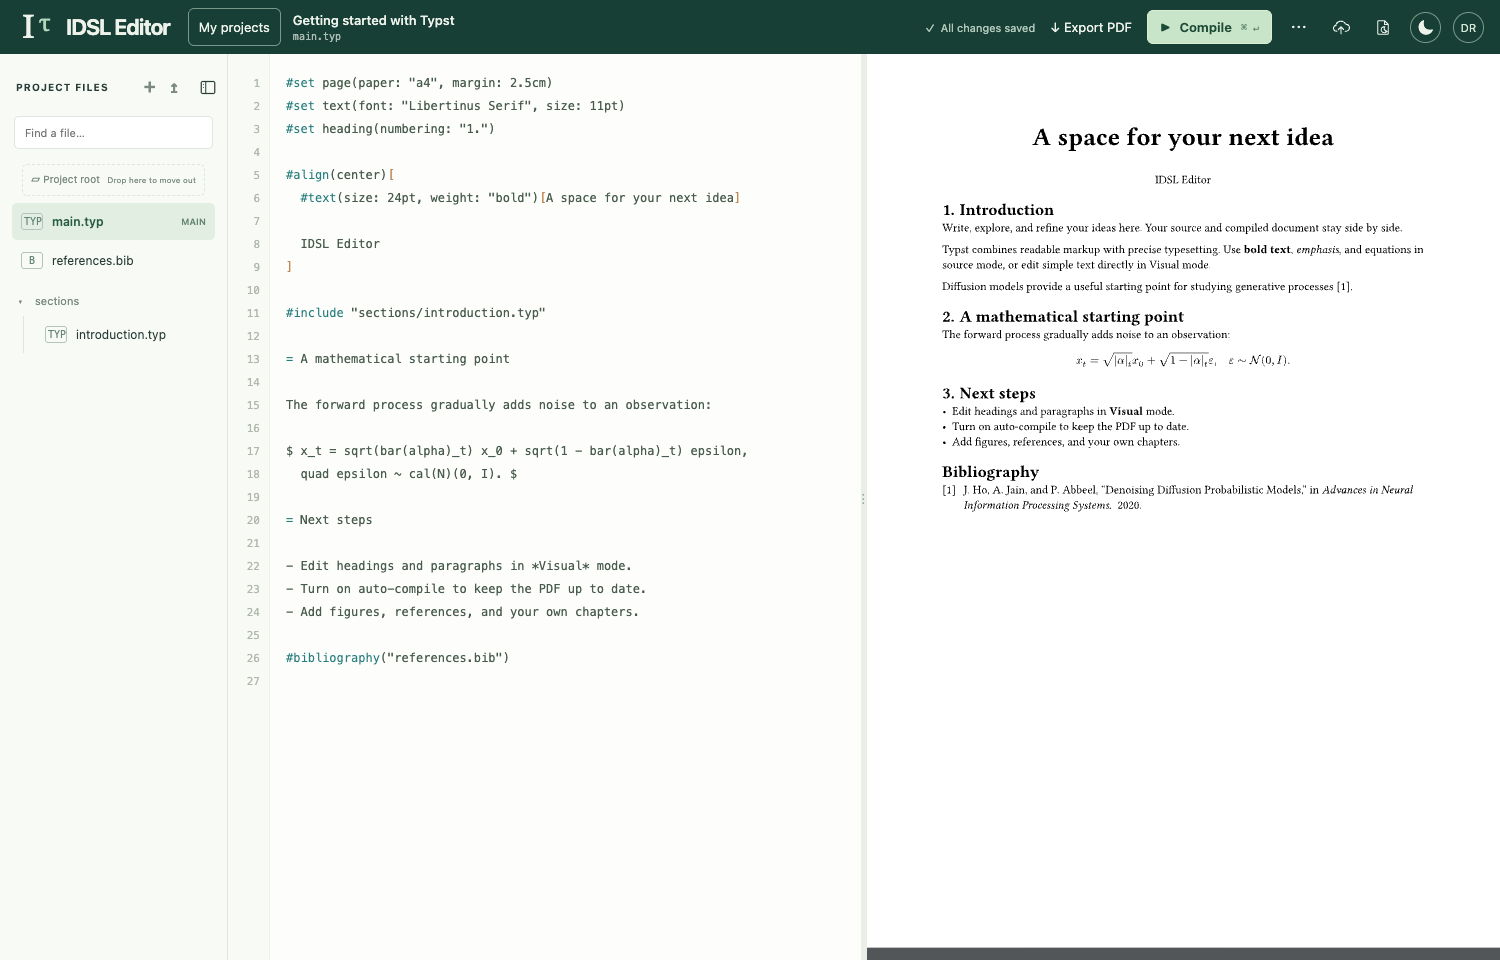
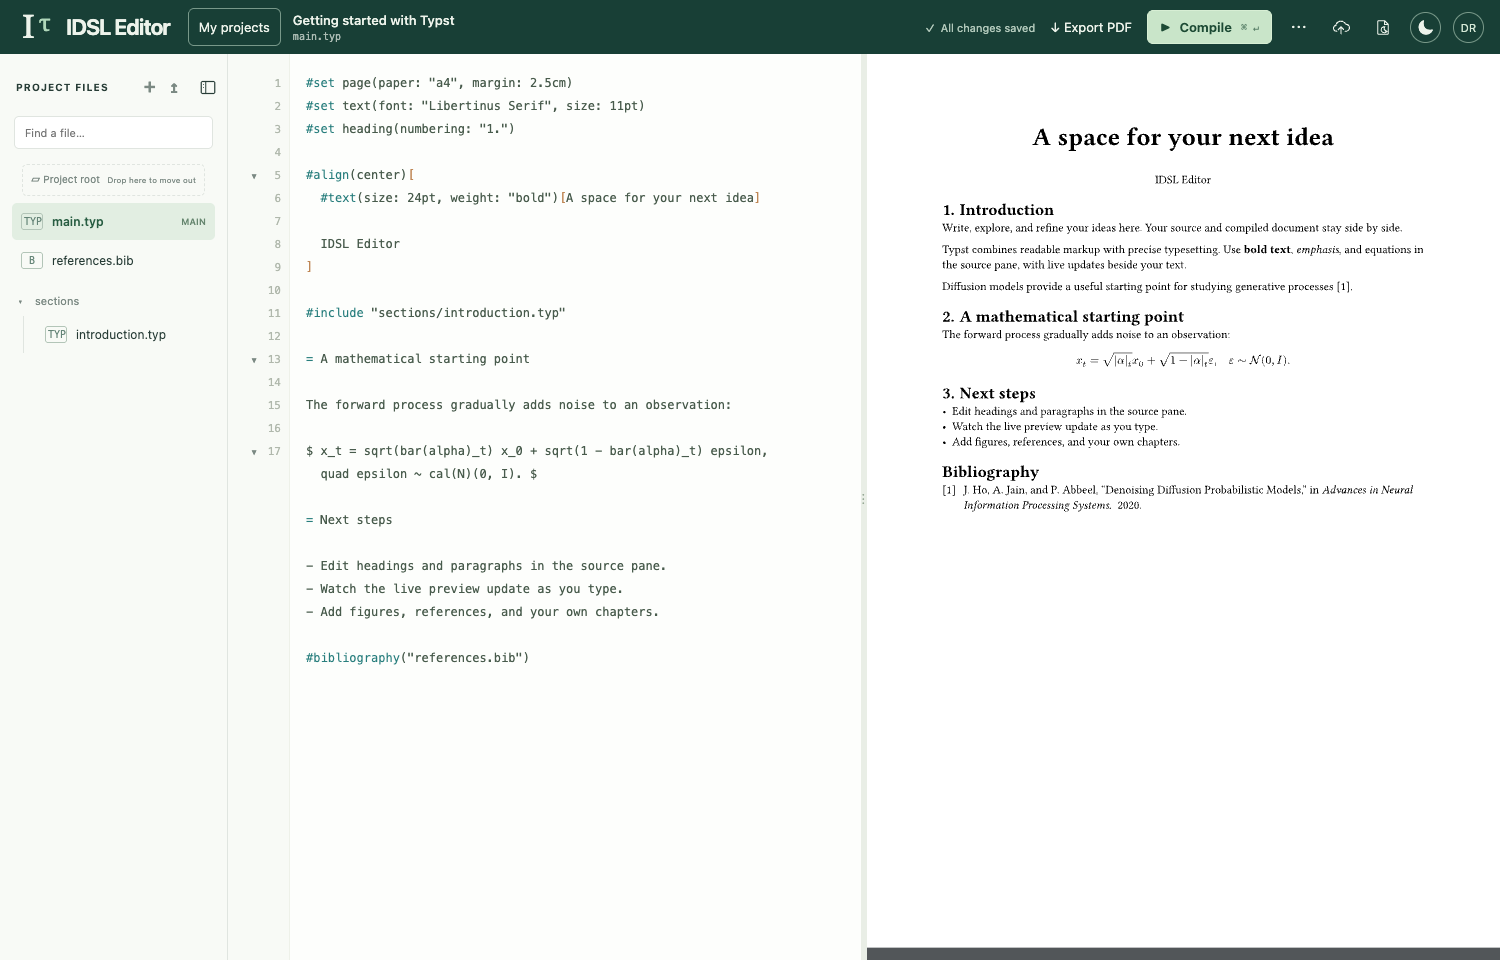
Refresh screenshots for the focused editor release
Regenerate all documentation images from disposable fictional projects, add folding and multi-file selection views, and capture inline Tinymist documentation. Update starter instructions to match source editing and live preview.

diff --git a/core.py b/core.py
@@ -167,7 +167,7 @@ The challenge is to learn a reverse process that recovers the structure of the d
 
 Write, explore, and refine your ideas here. The IDSL Editor workspace keeps the files, equations, and references that make up your paper together in one project.
 
-Switch to Visual mode to edit plain paragraphs and headings. Advanced LaTeX remains available in source cards, so your original commands stay intact.
+Edit LaTeX directly in the source pane and compile to preview your paper. Fold sections and environments to focus on one part at a time.
 
 Diffusion models provide a useful starting point for studying generative processes~\cite{ho2020denoising}.
 '''.encode(),
@@ -201,8 +201,8 @@ $ x_t = sqrt(bar(alpha)_t) x_0 + sqrt(1 - bar(alpha)_t) epsilon,
 
 = Next steps
 
-- Edit headings and paragraphs in *Visual* mode.
-- Turn on auto-compile to keep the PDF up to date.
+- Edit headings and paragraphs in the source pane.
+- Watch the live preview update as you type.
 - Add figures, references, and your own chapters.
 
 #bibliography("references.bib")
@@ -211,7 +211,7 @@ $ x_t = sqrt(bar(alpha)_t) x_0 + sqrt(1 - bar(alpha)_t) epsilon,
 
 Write, explore, and refine your ideas here. Your source and compiled document stay side by side.
 
-Typst combines readable markup with precise typesetting. Use *bold text*, _emphasis_, and equations in source mode, or edit simple text directly in Visual mode.
+Typst combines readable markup with precise typesetting. Use *bold text*, _emphasis_, and equations in the source pane, with live updates beside your text.
 
 Diffusion models provide a useful starting point for studying generative processes @ho2020denoising.
 ''',

diff --git a/docs/DEVELOPMENT.md b/docs/DEVELOPMENT.md
@@ -96,9 +96,9 @@ NODE_BIN=/path/to/node \
 python3 tests/run_browser.py --screenshots
 ```
 
-This runs `tests/capture_docs.cjs` instead of the regression suites. It requires a fresh database, creates only fictional `example.test` demo accounts and starter documents, captures grid/list/mobile project views, both editors (a classic LaTeX article is the main README image), the template library, account dropdown, source editing, sharing, GitHub settings, dark mode, the palette picker, and the Western/NeurIPS starters into `docs/images/`, then discards the database. It never uses the personal installation or writes to GitHub. The backup screenshot leaves its token field empty; sharing screenshots must not show generated invitation links.
+This runs `tests/capture_docs.cjs` instead of the regression suites. It requires a fresh database, creates only fictional `example.test` demo accounts and starter documents, captures grid/list/mobile project views, both editors (a classic LaTeX article is the main README image), source folding, multiple-file selection, live Typst/LSP, the template library, account dropdown, sharing, GitHub settings, dark mode, the palette picker, and the Western/NeurIPS starters into `docs/images/`, then discards the database. It waits for actual PDF/live rendering before capturing. It never uses the personal installation or writes to GitHub. The backup screenshot leaves its token field empty; sharing screenshots must not show generated invitation links.
 
-The native suite also writes `artifacts/tinymist-live.png`; after inspecting it, copy it to `docs/images/typst-live.png`. Keep the classic LaTeX editor as the main README image.
+The screenshot runner also refreshes `docs/images/typst-live.png` directly; the native regression suite keeps its separate test image in ignored `artifacts/`. Keep the classic LaTeX editor as the main README image.
 
 Inspect every screenshot before publishing. Check image metadata as well as visible pixels; never capture live projects or use redaction as a substitute for a disposable fixture.
 

diff --git a/README.md b/README.md
@@ -10,7 +10,7 @@ A local workspace for writing LaTeX and Typst, with a project explorer, source e
 | --- | --- |
 | [![Project explorer with LaTeX and Typst documents](docs/images/projects.png)](docs/images/projects.png) | [![Dark Typst editor](docs/images/dark-theme.png)](docs/images/dark-theme.png) |
 
-More views: [Source editing](docs/images/source-editor.png) · [Live Typst + LSP](docs/images/typst-live.png) · [Typst](docs/images/typst-workspace.png) · [Template library](docs/images/template-library.png) · [Image preview](docs/images/image-preview.png) · [File actions](docs/images/file-actions.png) · [Account menu](docs/images/account-menu.png) · [Themes](docs/images/themes.png) · [Western slides](docs/images/western-presentation.png) · [NeurIPS paper](docs/images/neurips-paper.png) · [Project actions](docs/images/project-actions.png) · [Project list](docs/images/projects-list.png) · [Mobile](docs/images/projects-mobile.png) · [Sharing](docs/images/sharing.png) · [GitHub backups](docs/images/github-backups.png).
+More views: [Source folding](docs/images/source-folding.png) · [Multiple file selection](docs/images/file-selection.png) · [Source editing](docs/images/source-editor.png) · [Live Typst + LSP](docs/images/typst-live.png) · [Typst](docs/images/typst-workspace.png) · [Template library](docs/images/template-library.png) · [Image preview](docs/images/image-preview.png) · [File actions](docs/images/file-actions.png) · [Account menu](docs/images/account-menu.png) · [Themes](docs/images/themes.png) · [Western slides](docs/images/western-presentation.png) · [NeurIPS paper](docs/images/neurips-paper.png) · [Project actions](docs/images/project-actions.png) · [Project list](docs/images/projects-list.png) · [Mobile](docs/images/projects-mobile.png) · [Sharing](docs/images/sharing.png) · [GitHub backups](docs/images/github-backups.png).
 
 All screenshots use a temporary database, fictional demo accounts, and starter documents. They contain no real projects, credentials, or usable invitation links.
 

diff --git a/docs/LOCAL.md b/docs/LOCAL.md
@@ -137,7 +137,7 @@ The live service uses temporary mirrors; your authoritative source and history r
 
 Tinymist live editing is enabled by the **local Mac runner** for editable projects. If it is unavailable, the right pane explains why rather than loading a PDF. Linux shared hosting retains its isolated compiler for **Export PDF**; viewers may download an existing compiled PDF. Typst does not run background PDF builds while typing. LaTeX keeps its **Auto-compile** option.
 
-![Tinymist live preview and language controls with fictional source](images/typst-live.png)
+![Tinymist live preview and inline language documentation with fictional source](images/typst-live.png)
 
 ## GitHub backups
 
